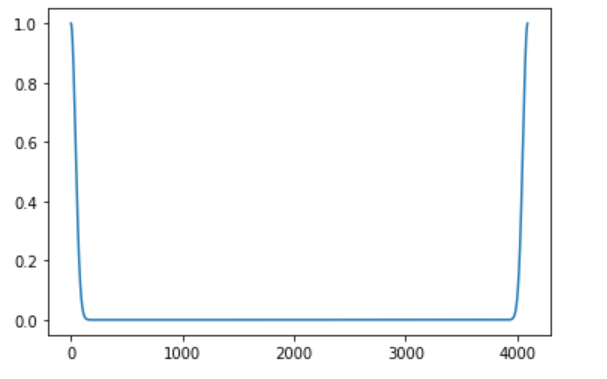
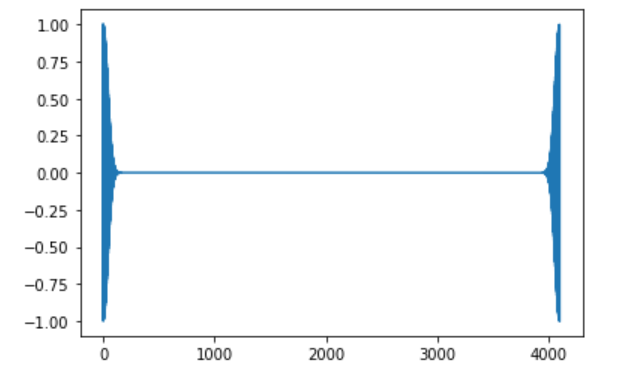
python_fft

Changed region(s): [[0.0, 0.0, 0.9489, 0.968]]

diff --git a/python_fft/README.md b/python_fft/README.md
@@ -82,14 +82,14 @@ plt.show()
 
 ```py
 fk = np.fft.fft(y)
-plt.plot(np.abs(fk))
+plt.plot(fk)
 ```
 
 するとこうなる。
 
 ![ガウス分布のフーリエ変換](gauss2.png)
 
-なんか変なデータになっていますね。これがどうなっているかを理解しちゃんと理論値と比較できるようになるのが本稿の目的だ。
+なんか変なデータになっていますね。これがどうなっているかを理解して、ちゃんと理論値と比較できるようになりましょう、というのが本稿の目的だ。
 
 まず、`numpy.fft.fft`が行うのは離散フーリエ変換(DFT)である。離散フーリエ変換では、配列のどのインデックスがどの座標に対応しているかを気を付けなければならない。
 
@@ -98,15 +98,15 @@ plt.plot(np.abs(fk))
 さて、N個のデータのDFTのデータは、やはりN個になるため、結果は要素N個の一次元配列となる。その順番と`k`の対応は`numpy.fft.fftfreq`にデータ点数を与えることで得られる。取得してプロットしてみよう。
 
 ```py
-k = np.fft.fftfreq(N)
-plt.plot(k)
+freq = np.fft.fftfreq(N)
+plt.plot(freq)
 ```
 
 すると、こんな感じになる。
 
 ![kのプロット](k.png)
 
-kの取り得る値は-1/2から1/2まで1/N刻みであり、それが
+波数kの取り得る値は-1/2から1/2まで1/N刻みであり、それが
 
 $$
 0, 1/N, 2/N, \cdots, 1/2, -N/2, -N/2 +1, \cdots, -1/N
@@ -118,14 +118,28 @@ $$
 
 ```py
 plt.xlim([-0.05,0.05])
-plt.scatter(k,np.abs(fk),s=1)
+plt.scatter(freq,fk,s=1)
 ```
 
 ![波数空間でのガウス分布](gauss3.png)
 
-ちゃんとガウス分布になった。
+ガウス分布っぽいものは出てきたが、まだおかしい。実は、計算の都合上、フーリエ変換$\hat{f}(k)$と、離散フーリエ変換の係数$A_k$の間には
 
-では、これが理論曲線に一致するか確認してみよう。理論曲線は以下の通りだった。
+$$
+\hat{f}(k) = (-1)^n A_k
+$$
+
+と、$(-1)^k$がかかってしまう。今回のケースでは、絶対値をとってしまうのが楽だ。
+
+```py
+plt.xlim([-0.05,0.05])
+plt.scatter(freq,np.abs(fk),s=1)
+```
+
+![波数空間でのガウス分布](gauss4.png)
+
+
+期待されるガウス分布になった。では、これが理論曲線に一致するか確認してみよう。理論曲線は以下の通りだった。
 
 $$
 \hat{f}(k) = \exp\left(- \frac{\sigma^2 k^2}{2}\right)
@@ -134,10 +148,10 @@ $$
 これを重ねて表示してみよう。
 
 ```py
-theory = [exp(-x**2*s**2/2.0) for x in k]  # 理論曲線
+theory = [exp(-k**2*s**2/2.0) for k in freq]    # 理論曲線
 fig, ax = plt.subplots()
-ax.scatter(k, np.abs(fk), s = 1, c = "red") # フーリエ変換
-ax.scatter(k,theory, s = 1, c="blue")       # 理論曲線
+ax.scatter(freq, np.abs(fk), s = 1, c = "red")  # DFTの結果
+ax.scatter(freq,theory, s = 1, c="blue")        # 理論曲線
 plt.xlim([-0.1,0.1])
 plt.show()
 ```
@@ -164,10 +178,10 @@ $$
 すると、連続版の$x$がDFTの$m$に、連続版の$k$は、DFTにおける$2\pi k/N$に対応することがわかる。先ほどの例では、単に$k/N$としてしまっていたため、波数空間の縮尺が$2 \pi$だけずれている。これを修正してみよう。
 
 ```py
-theory = [exp(-(x*2*pi)**2*s**2/2.0) for x in k]  # xに2*piをかける　
+theory = [exp(-(2*pi*k)**2*s**2/2.0) for k in freq] # kに2piをかける
 fig, ax = plt.subplots()
-ax.scatter(k, np.abs(fk), s = 1, c = "red") # フーリエ変換
-ax.scatter(k,theory, s = 1, c="blue")       # 理論曲線
+ax.scatter(freq, np.abs(fk), s = 1, c = "red")
+ax.scatter(freq,theory, s = 1, c="blue")
 plt.xlim([-0.1,0.1])
 plt.show()
 ```
@@ -175,3 +189,287 @@ plt.show()
 ![理論曲線との比較](comparison2.png)
 
 めでたく一致した。
+
+## 時系列(指数減衰)
+
+次に、時系列の解析をしてみよう。以下のような力学系を考える。
+
+$$
+\dot{v} = - \gamma v
+$$
+
+速度に比例する抵抗をうけて運動する物体の速度の時間発展を表すものだ。オイラー法で時間発展させて、時系列を作るにはこんな感じのコードになるだろう。
+
+```py
+import numpy as np
+from math import sqrt, pi,
+import matplotlib.pyplot as plt
+
+N = 4096            # サンプル数
+h = 0.1          # 時間刻み
+gamma = 0.2
+v0 = 2.0
+
+v = v0
+f = []
+for _ in range(N):
+  v = v -gamma * v * h
+  f.append(v)
+```
+
+できた時系列をプロットしてみよう。
+
+```py
+plt.plot(f)
+plt.show()
+```
+
+![指数減衰](exp1.png)
+
+さて、今回は刻み幅が1ではなく$h$なので、周波数空間が変わる。それを見ておこう。
+
+```py
+freq = np.fft.fftfreq(N, d=h)
+plt.plot(freq)
+```
+
+![周波数空間](exp_freq.png)
+
+先ほどと異なり、$-1/(2h)$から$1/(2h)$になっていることに注意。
+
+フーリエ変換して、絶対値を表示してみよう。
+
+```py
+fw = np.fft.fft(f)
+plt.scatter(freq, np.abs(fw),s=1)
+```
+
+![指数減衰のフーリエ変換](exp2.png)
+
+この理論曲線をもとめてみよう。まずは、離散フーリエ変換の定義式に戻る。
+
+$$
+A_k = \sum_{m=0}^{N-1} a_m
+\exp\left(- 2 \pi i \frac{mk}{N} \right)
+$$
+
+$A_k$が係数、$a_m$が入力の時系列だ。時間刻みを$h$としているので、時系列$a_m$と入力信号$f(t)$の関係は、
+
+$$
+a_m = f(mh)
+$$
+
+である。また、時系列の時間は0から$Nh$までなので、$T=Nh$として$N$を$T$を用いて書き直そう。
+
+$$
+A_k = \sum_{m=0}^{N-1} f(mh)
+\exp\left(- 2 \pi i \frac{mhk}{T} \right)
+$$
+
+これを積分で近似すると、
+
+$$
+A_k = \frac{1}{h} \int_0^T f(t) 
+\exp\left(- \frac{2 \pi i tk}{T} \right) dt
+$$
+
+さて、今回のケースでは
+
+$$
+f(t) = v_0 e^{-\gamma t}
+$$
+
+なので、突っ込んで計算し、$T$が大きいと思って「おつり」を無視すると、
+
+$$
+A_k = \frac{1}{h} \frac{v_0}{\gamma + 2 \pi i k /T}
+$$
+
+さて、これを`numpy.fft.fftfreq`で得たx座標とともにプロットするのだが、それが$1/(Nh)$刻みなので、$w = kh/T$とすると、
+
+$$
+A(w)  = \frac{1}{h} \frac{v_0}{\gamma + 2 \pi i w}
+$$
+
+となる。こいつの絶対値をとったものが、
+
+```py
+plt.scatter(freq, np.abs(fw),s=1)
+```
+
+でプロットされるものに一致するはずだ。見てみよう。
+
+```py
+fig, ax = plt.subplots()
+theory = [v0/sqrt((w*2*pi)**2 + gamma**2)/h for w in freq] # 理論値
+ax.set_xscale("log")
+ax.set_yscale("log")
+plt.xlim([1,0.5/h])
+plt.scatter(freq, np.abs(fw), s = 1)
+plt.scatter(freq, theory, s=1)
+```
+
+![比較](exp_theory.png)
+
+概ね一致した。なお、グラフの右の方でずれてくるのはDFTの周期境界条件のためだ。
+
+## 時系列(ランジュバン方程式)
+
+最後にランジュバン方程式を考えてみよう。こんな運動方程式を考える。
+
+$$
+\dot{v} = - \gamma v + R
+$$
+
+これは揺動力を受けながら運動する物体の速度の時間発展を表している。ここで、$R(t)$は、以下を満たす白色雑音である。
+
+$$
+\left< R(t)\right> = 0
+$$
+
+$$
+\left< R(t) R(t')\right> = \delta(t-t') 
+$$
+
+時系列を作るには、白色雑音を離散化しなくてはならない。確率微分方程式はいろいろ面倒くさいのだが、ここでは一番簡単なEuler-Maruyama方を採用しよう。時間刻みを$h$とした時、$R(t)$を時間$h$だけ積分したら、平均0、分散$h$となるようなガウス分布に従う乱数になるとする。これにより、以下のようなコードに落とすことができる。
+
+```py
+import numpy as np
+from math import sqrt, pi, cos
+import matplotlib.pyplot as plt
+
+N = 4096         # サンプル数
+h = 0.1          # 時間刻み
+gamma = 0.2      # 減衰係数
+v0 = 0.0         # 初速
+
+v = v0
+f = []
+for _ in range(N):
+  v = v -gamma * v * h + np.random.normal(0, sqrt(h))
+  f.append(v)
+```
+
+後の便利のために初速を0にしてある。また、`numpy.random.normal`は、分散ではなく標準偏差を与える方式のため、$\sqrt{h}$を与えている。
+
+さて、まずは時系列をプロットしてみよう。
+
+```py
+plt.plot(f)
+plt.show()
+```
+
+![時系列](langevin1.png)
+
+なんかランダムウォークっぽいですね。
+
+フーリエ変換して係数の絶対値をプロットしてみよう。
+
+```py
+fw = np.fft.fft(f)
+freq = np.fft.fftfreq(N, d=h)
+plt.scatter(freq, np.abs(fw),s=1)
+```
+
+![FFT](langevin2.png)
+
+このグラフを係数も含めて求めましょう、というのが目的だ。
+
+まず、先ほどの運動方程式をラプラス変換で解いてしまおう。
+
+$$
+s \tilde{v} = -\gamma \tilde{v} +\tilde{R}
+$$
+
+より、
+
+$$
+\tilde{v} = \frac{\tilde{R}}{s+ \gamma}
+$$
+
+となる(ここでゴミがでないように初速を0にしておいた)。ここから、
+
+$$
+v(t) = \int_0^t e^{-\gamma t'} R(t') dt
+$$
+
+となる。これは畳み込み積分であるから、フーリエ変換すれば、それぞれのフーリエ変換の積に分解できる。指数関数のフーリエ変換は先ほど求めた通りなので、問題は揺動力$R(t)$の変換だ。
+
+定義に突っ込んで計算してみよう。$R(t)$を時間刻み$h$で離散化したものを$r_m$としよう。ただし$r_m = R(mh)$である。こいつのDFT係数は
+
+$$
+A_k = \sum_{m=0}^{N-1} r_m
+\exp\left(- 2 \pi i \frac{mk}{N} \right)
+$$
+
+である。さて、ここでパワースペクトル
+
+$$
+|A_k|^2 = A_k A_k^*
+$$
+
+を考える。ただし$A_k^*$は$A_k$の複素共役である。式を素直に書き下すと、
+
+$$
+A_k A_k^* = \sum_{m=0}^{N-1}\sum_{n=0}^{N-1} r_m r_n
+\exp\left(- 2 \pi i \frac{(m-n)k}{N} \right)
+$$
+
+となる。ここで、両辺を乱数についてアンサンブル平均をとる。
+
+$$
+\left<A_k A_k^*\right> = \sum_{m=0}^{N-1}\sum_{n=0}^{N-1}
+\left< r_m r_n \right>
+\exp\left(- 2 \pi i \frac{(m-n)k}{N} \right)
+$$
+
+すると、異なる時刻の$r_m$は相関を持たず、平均はゼロなので、$m=n$の項しか残らない。したがって和が一つ消え、さらに後ろの指数関数が消えるので、
+
+$$
+\left<A_k A_k^*\right> = \sum_{m=0}^{N-1}
+\left< r_m^2 \right>
+$$
+
+$r_m$は平均0、分散$h$に従う確率変数であったから、
+
+$$
+\left< r_m^2 \right> = h
+$$
+
+以上から、
+
+$$
+\left<A_k A_k^*\right> = Nh
+$$
+
+となる。以上から、$v(t)$のフーリエ変換$v(\omega)$の絶対値は
+
+$$
+\begin{aligned}
+|\hat{v}(\omega)| &= \sqrt{\hat{v}(\omega)\hat{v}(\omega)^*} \\
+&= \frac{1}{h} \left|\frac{1}{\gamma + 2 \pi i w} \right| \sqrt{Nh} \\
+&= \frac{1}{h} \frac{\sqrt{Nh}}{\sqrt{\gamma^2+(2 \pi w)^2}}
+\end{aligned}
+$$
+
+となる。プロットしてみよう。
+
+```py
+fig, ax = plt.subplots()
+theory = [sqrt(N*h)/sqrt((2*pi*w)**2 + gamma**2)/h for w in freq] # 理論値
+ax.set_xscale("log")
+ax.set_yscale("log")
+plt.xlim([1,0.5/h])
+plt.scatter(freq, np.abs(fw), s = 1)
+plt.scatter(freq, theory, s=1)
+```
+
+![比較](langevin3.png)
+
+なんか正しそうな雰囲気ですね。
+
+## まとめ
+
+Pythonでフーリエ変換をしてみた。Python(に限らず多くのライブラリ)で実装されているのは離散フーリエ変換であり、しかも規格化定数その他に気を付けないと値が理論値と一致しなくて結構困ることになる。
+
+離散フーリエ変換と連続フーリエ変換の関係は、ゆっくり考えるとちゃんとわかるのだが、いろいろ面倒だ。本稿がPythonでフーリエ変換してみようとしている人の役に立てば幸いである。
